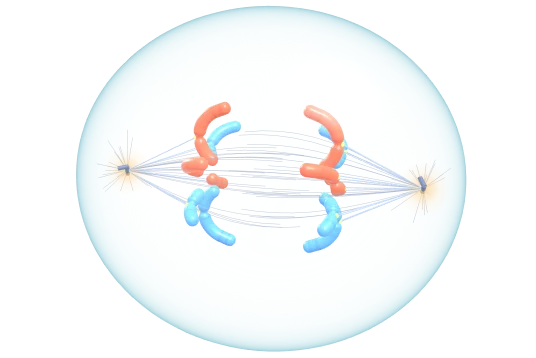
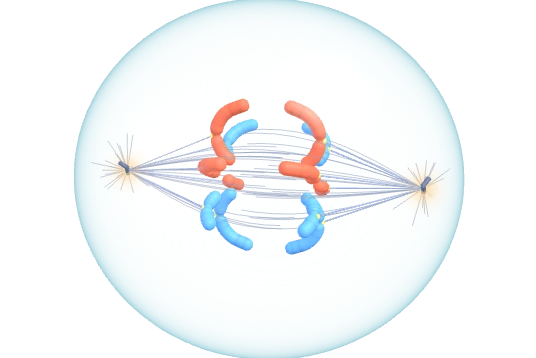
cell division: enzyme's shading (standard mats, camera-parented light, no env map); rebake enzyme + cell-division shelf stills

diff --git a/demos/cell-division/materials.js b/demos/cell-division/materials.js
@@ -172,43 +172,6 @@
     };
   }
 
-  // ---------------------------------------------------------------- environment
-  // A soft studio: gradient dome + a few softboxes, prefiltered for glossy reflections.
-  CD.makeEnvironment = function (renderer) {
-    const env = new THREE.Scene();
-    const dome = new THREE.SphereGeometry(10, 32, 16);
-    const pos = dome.attributes.position;
-    const cols = [];
-    const top = new THREE.Color('#ffffff');
-    const bottom = new THREE.Color(0xd9d3c7); // the paper, a shade down, so reflections are warm
-    const tmp = new THREE.Color();
-    for (let i = 0; i < pos.count; i++) {
-      const y = pos.getY(i) / 10;
-      tmp.copy(bottom).lerp(top, CD.smoothstep(-0.6, 0.7, y));
-      cols.push(tmp.r, tmp.g, tmp.b);
-    }
-    dome.setAttribute('color', new THREE.Float32BufferAttribute(cols, 3));
-    env.add(new THREE.Mesh(dome, new THREE.MeshBasicMaterial({ vertexColors: true, side: THREE.BackSide })));
-
-    const box = (w, h, p, k) => {
-      const m = new THREE.Mesh(
-        new THREE.PlaneGeometry(w, h),
-        new THREE.MeshBasicMaterial({ color: new THREE.Color(k, k, k), side: THREE.DoubleSide })
-      );
-      m.position.copy(p);
-      m.lookAt(0, 0, 0);
-      env.add(m);
-    };
-    box(9, 4, new THREE.Vector3(1, 7, 4), 3.2);
-    box(4, 7, new THREE.Vector3(-8, 2, 3), 1.6);
-    box(4, 6, new THREE.Vector3(8, 1, -3), 1.2);
-
-    const pmrem = new THREE.PMREMGenerator(renderer);
-    const rt = pmrem.fromScene(env, 0.03);
-    pmrem.dispose();
-    return rt.texture;
-  };
-
   // ---------------------------------------------------------------- shared resources
   CD.initShared = function () {
     CD.tex = {
@@ -248,7 +211,7 @@
         opacity: 0.55,
         depthWrite: false,
       }),
-      centriole: new THREE.MeshStandardMaterial({ color: lin(CD.COLORS.centriole), roughness: 0.35, metalness: 0.1 }),
+      centriole: new THREE.MeshStandardMaterial({ color: lin(CD.COLORS.centriole), roughness: 0.48 }),
       halo: new THREE.SpriteMaterial({
         map: CD.tex.glow,
         color: lin(CD.COLORS.halo),

diff --git a/demos/cell-division/cell-division.js b/demos/cell-division/cell-division.js
@@ -48,16 +48,15 @@
 
     const scene = new THREE.Scene();
     if (!CD.mat) CD.initShared();
-    scene.environment = CD.makeEnvironment(renderer);
-    scene.add(new THREE.HemisphereLight(0xffffff, 0xe6e0d4, 0.45));
-    const key = new THREE.DirectionalLight(0xffffff, 1.05);
-    key.position.set(4, 8, 6);
-    scene.add(key);
-    const rim = new THREE.DirectionalLight(0xfff4e6, 0.45);
-    rim.position.set(-6, 2, -5);
-    scene.add(rim);
-
     const camera = new THREE.PerspectiveCamera(32, 1, 0.1, 200);
+    // the enzyme lesson's studio light, parented to the camera so highlights stay put on orbit
+    scene.add(new THREE.AmbientLight(0xffffff, 0.75));
+    scene.add(camera);
+    const key = new THREE.DirectionalLight(0xffffff, 1.2);
+    key.position.set(4, 6, 8);
+    const fill = new THREE.DirectionalLight(0x88aaff, 0.45);
+    fill.position.set(-6, -2, -4);
+    camera.add(key, key.target, fill, fill.target);
     const HOME_DIR = new V3(0.22, 0.3, 1).normalize();
     camera.position.copy(HOME_DIR).multiplyScalar(16);
 

diff --git a/demos/cell-division/objects.js b/demos/cell-division/objects.js
@@ -37,15 +37,12 @@
     constructor(def, parent) {
       this.def = def;
       this.st = {};
-      this.mat = new THREE.MeshPhysicalMaterial({
+      this.mat = new THREE.MeshStandardMaterial({
         vertexColors: true,
-        roughness: 0.36,
+        roughness: 0.48,
         metalness: 0,
-        clearcoat: 0.6,
-        clearcoatRoughness: 0.28,
         emissive: new THREE.Color(0xffffff),
         emissiveIntensity: 0,
-        envMapIntensity: 0.6,
       });
       this.tube = new CD.Tube(N, M, this.mat);
       this.mesh = this.tube.mesh;
@@ -388,10 +385,9 @@
       this.shell.renderOrder = 2;
       this.group.add(this.shell);
 
-      this.nMat = new THREE.MeshPhysicalMaterial({
+      this.nMat = new THREE.MeshStandardMaterial({
         color: CD.lin(CD.COLORS.nucleolus),
-        roughness: 0.5,
-        clearcoat: 0.3,
+        roughness: 0.48,
         transparent: true,
         opacity: 1,
       });
